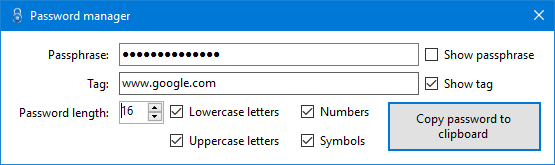
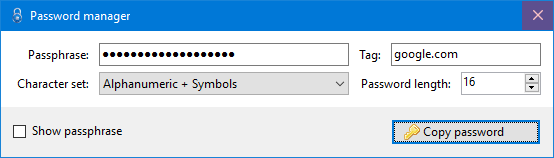
Updated documentation

diff --git a/PasswordManager/Forms/MainForm.Designer.cs b/PasswordManager/Forms/MainForm.Designer.cs
@@ -148,17 +148,6 @@
             // 
             this._characterSetComboBox.DropDownStyle = System.Windows.Forms.ComboBoxStyle.DropDownList;
             this._characterSetComboBox.FormattingEnabled = true;
-            this._characterSetComboBox.Items.AddRange(new object[] {
-            "Numbers",
-            "Lowercase alphabet",
-            "Uppercase alphabet",
-            "Symbols",
-            "Alphabet",
-            "Alphabet + Symbols",
-            "Alphabet + Symbols + Space",
-            "Alphanumeric",
-            "Alphanumeric + Symbols",
-            "Alphanumeric + Symbols + Space"});
             this._characterSetComboBox.Location = new System.Drawing.Point(98, 41);
             this._characterSetComboBox.Name = "_characterSetComboBox";
             this._characterSetComboBox.Size = new System.Drawing.Size(250, 23);

diff --git a/README.md b/README.md
@@ -5,6 +5,15 @@
 
 **Tag**: A tag for any particular application/service/website.
 
+**Character set**: The character set to choose from. The following character sets are available:
+
+| Name                           | Characters                                      |
+| ------------------------------ | ----------------------------------------------- |
+| Alphabet                       | [a-zA-Z]                                        |
+| Alphanumeric                   | [a-zA-Z0-9]                                     |
+| Alphanumeric + Symbols         | [a-zA-Z0-9!\"#$%&\'()*+,-./:;<=>?@[\\]^_`{|}~]  |
+| Alphanumeric + Symbols + Space | [a-zA-Z0-9 !\"#$%&\'()*+,-./:;<=>?@[\\]^_`{|}~] |
+
 **Password length**: Length of the password to generate.
 
 **Lowercase letters**: Controls whether the password should contain lowercase letters.
